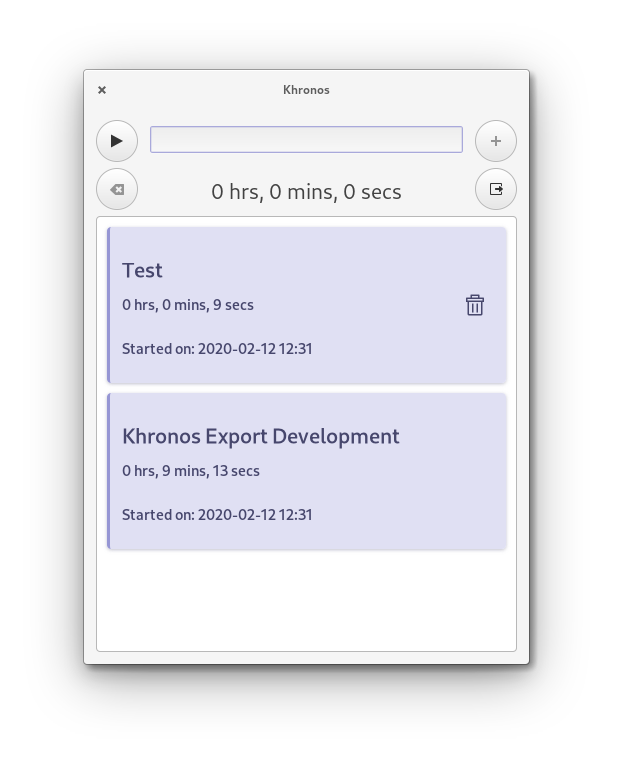
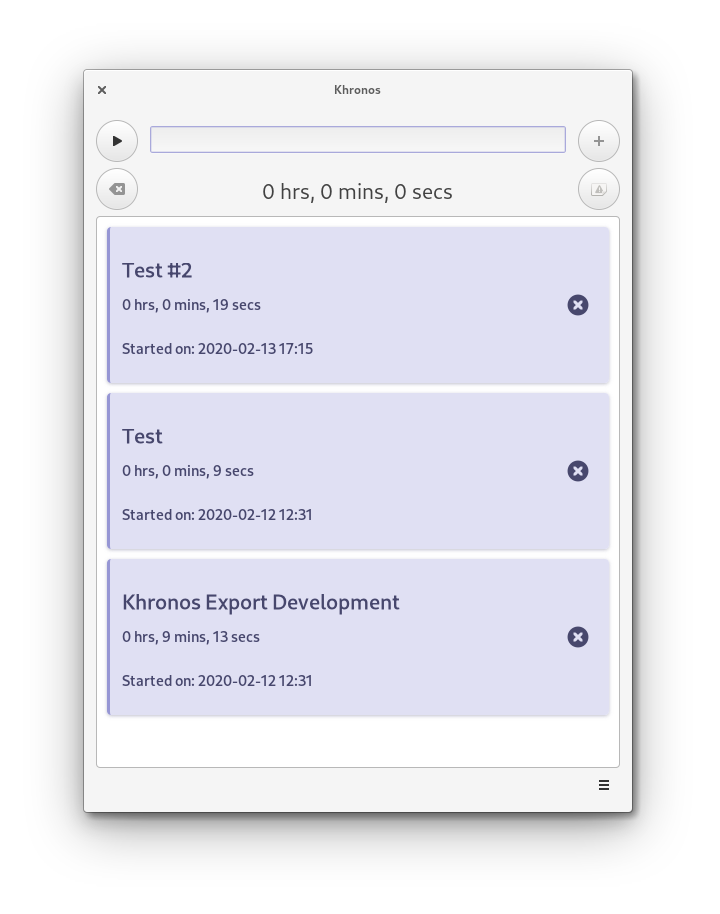
1.0.3 - Notifications have arrived // minor fixes

Changed region(s): [[0.0924, 0.0601, 0.893, 0.9308], [0.4619, 0.0901, 0.5543, 0.1501]]

diff --git a/data/stylesheet.css b/data/stylesheet.css
@@ -79,3 +79,11 @@
 .tt-label {
     font-size: 1.44em;
 }
+
+actionbar,
+.action-bar {
+    border-top: 1px solid transparent;
+    box-shadow: none;
+    background-image: none;
+    padding: 3px;
+}
